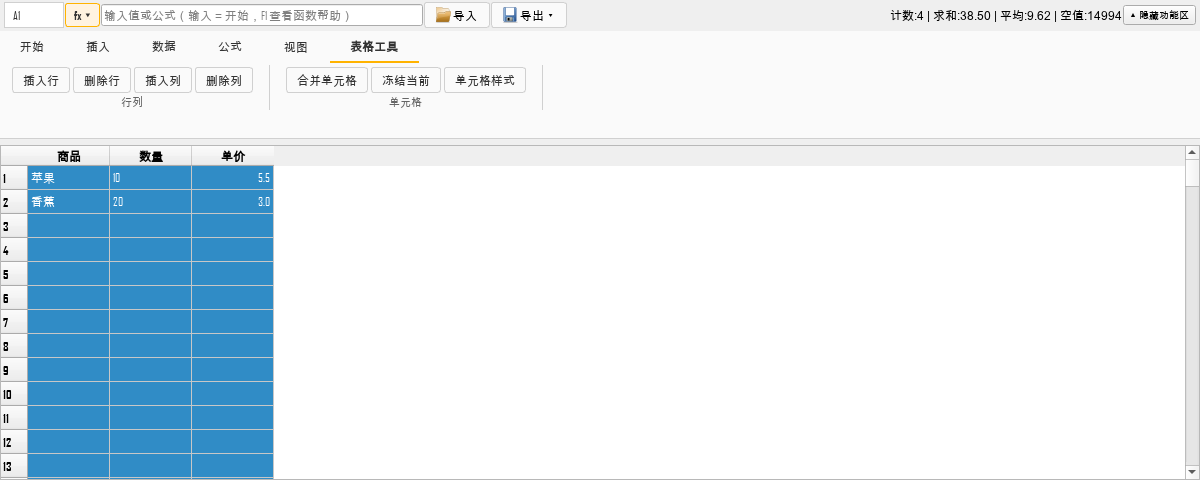
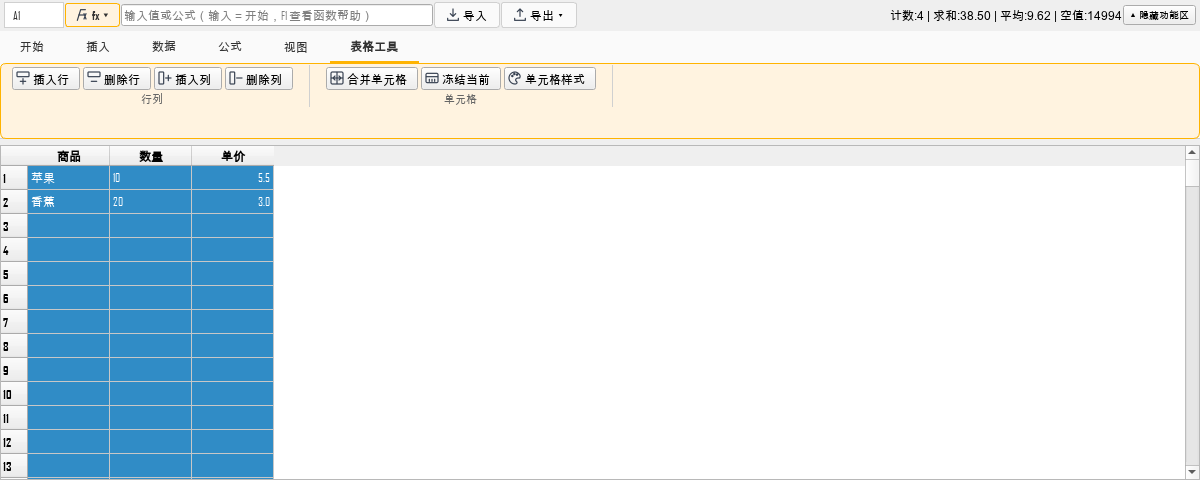
feat(ui): 自定义 SVG 图标、图标折叠、表格上下文页签与快捷工具栏

Changed region(s): [[0.0, 0.125, 1.0, 0.3125], [0.0617, 0.0, 0.3083, 0.0625], [0.3392, 0.0, 0.4625, 0.0625]]

diff --git a/beeoffice/plugins/beesheet_ui_mixin.py b/beeoffice/plugins/beesheet_ui_mixin.py
@@ -44,15 +44,16 @@ from PySide6.QtWidgets import (
     QWidget, QVBoxLayout, QHBoxLayout, QTableView, QHeaderView,
     QLineEdit, QLabel, QPushButton, QComboBox, QSpinBox,
     QListWidget, QAbstractItemView, QProgressBar, QAbstractButton,
-    QGroupBox, QTabBar, QStackedWidget, QFrame, QSizePolicy, QStyle,
+    QGroupBox, QTabBar, QStackedWidget, QFrame, QSizePolicy, QStyle, QToolButton,
 )
-from PySide6.QtCore import Qt, QTimer, QSettings
-from PySide6.QtGui import QFont, QShortcut, QKeySequence
+from PySide6.QtCore import Qt, QTimer, QSettings, QSize
+from PySide6.QtGui import QFont, QShortcut, QKeySequence, QColor
 
 from beeoffice.plugins.beesheet_delegate import CellEditorDelegate
 from beeoffice.plugins.beesheet_loaders import ChunkLoader
 from beeoffice.i18n import tr
 from beeoffice.theme import Theme
+from beeoffice.ribbon_icons import ribbon_icon
 
 
 def _t():
@@ -203,6 +204,7 @@ class UIMixin:
         t1.addWidget(self._name_box)
 
         self._fx_btn = QPushButton("fx ▾")
+        self._fx_btn.setIcon(ribbon_icon("function"))
         self._fx_btn.setToolTip(tr("auto.beesheet_ui_mixin.19e2c0c0", "插入函数"))
         self._fx_btn.setStyleSheet(
             f"QPushButton{{background:{_t()['accent_light']};border:1px solid {_t()['accent']};"
@@ -229,13 +231,13 @@ class UIMixin:
 
         btn_import = QPushButton(tr("auto.beesheet_ui_mixin.85c5bee6", "导入"))
         btn_import.setStyleSheet(btn_style)
-        btn_import.setIcon(self.style().standardIcon(QStyle.SP_DialogOpenButton))
+        btn_import.setIcon(ribbon_icon("import"))
         btn_import.clicked.connect(self._import_file)
         t1.addWidget(btn_import)
 
         self._export_btn = QPushButton(tr("auto.beesheet_ui_mixin.6810bfb6", "导出 ▾"))
         self._export_btn.setStyleSheet(btn_style)
-        self._export_btn.setIcon(self.style().standardIcon(QStyle.SP_DialogSaveButton))
+        self._export_btn.setIcon(ribbon_icon("export"))
         self._export_btn.clicked.connect(self._show_export_menu)
         t1.addWidget(self._export_btn)
 
@@ -339,13 +341,34 @@ class UIMixin:
             "QPushButton:checked{background:#FFB300;color:#000;}"
         )
 
+        icon_by_text = {
+            "粘贴": "paste", "查找替换": "find", "自动求和": "sum",
+            "图表": "chart", "透视表": "pivot", "批注": "comment",
+            "智能填充": "fill", "排序": "sort", "筛选": "filter",
+            "清洗": "clean", "数据验证": "validation",
+            "插入函数": "function", "函数参考": "book",
+            "名称管理": "tag", "追踪引用": "trace", "追踪从属": "trace",
+            "自然语言": "natural", "冻结": "freeze", "解冻": "unfreeze",
+            "样式": "style", "兼容性": "compat", "统计": "stats",
+            "插入行": "insert-row", "删除行": "delete-row",
+            "插入列": "insert-col", "删除列": "delete-col",
+            "合并单元格": "merge", "冻结当前": "freeze", "单元格样式": "style",
+        }
+        self._ribbon_buttons = []
+
         def add_btn(group_layout, text, slot, tip=None):
-            btn = QPushButton(text)
-            btn.setStyleSheet(btn_style)
-            if tip:
-                btn.setToolTip(tip)
+            btn = QToolButton()
+            btn.setText(text)
+            icon_name = icon_by_text.get(text)
+            if icon_name:
+                btn.setIcon(ribbon_icon(icon_name))
+                btn.setIconSize(QSize(16, 16))
+                btn.setToolButtonStyle(Qt.ToolButtonTextBesideIcon)
+            btn.setStyleSheet("")
+            btn.setToolTip(tip or text)
             btn.clicked.connect(slot)
             group_layout.addWidget(btn)
+            self._ribbon_buttons.append(btn)
             return btn
 
         # ---------- 开始 ----------
@@ -455,6 +478,14 @@ class UIMixin:
         add_btn(cell_group, "单元格样式", self._show_style_menu)
         self._table_tab_index = self._ribbon_tabs.count() - 1
         self._ribbon_tabs.setTabVisible(self._table_tab_index, False)
+        self._ribbon_tabs.setTabTextColor(self._table_tab_index, QColor(_t()["accent"]))
+        ctx_page = page_table.parentWidget()
+        if ctx_page is not None:
+            ctx_page.setObjectName("BeeSheetTableContext")
+            ctx_page.setStyleSheet(
+                f"QWidget#BeeSheetTableContext{{background:{_t()['accent_light']};"
+                f"border:1px solid {_t()['accent']};border-radius:6px;}}"
+            )
 
         for page_layout in ribbon_pages:
             page_layout.addStretch(1)
@@ -497,6 +528,12 @@ class UIMixin:
         compact = self.width() < 980
         for group in self._ribbon.findChildren(RibbonGroup):
             group.title.setVisible(not compact)
+        for btn in getattr(self, "_ribbon_buttons", []):
+            if btn.icon().isNull():
+                continue
+            btn.setToolButtonStyle(
+                Qt.ToolButtonIconOnly if compact else Qt.ToolButtonTextBesideIcon
+            )
         self._ribbon.setFixedHeight(96 if compact else 108)
 
     # ==================== 表格视图 ====================

diff --git a/beeoffice/ribbon_icons.py b/beeoffice/ribbon_icons.py
@@ -1,0 +1,76 @@
+"""BeeOffice 内置 SVG 图标集。
+
+不依赖外部图片文件，避免 PyInstaller 资源漏打包。
+图标为线性风格，颜色可按主题替换。
+"""
+from __future__ import annotations
+
+from functools import lru_cache
+
+from PySide6.QtCore import QByteArray, QSize
+from PySide6.QtGui import QIcon, QPainter, QPixmap, QImage
+from PySide6.QtSvg import QSvgRenderer
+
+# 24x24 viewBox，{color} 由 ribbon_icon 替换
+_ICONS = {
+    "new": '<path d="M6 3h8l4 4v14H6z"/><path d="M14 3v5h5"/><path d="M12 12v6M9 15h6"/>',
+    "open": '<path d="M3 7h7l2 2h9v10H3z"/><path d="M3 7V5h6l2 2"/>',
+    "save": '<path d="M5 3h12l2 2v16H5z"/><path d="M8 3v6h7V3"/><path d="M8 14h8v7H8z"/>',
+    "import": '<path d="M12 3v11"/><path d="M8 10l4 4 4-4"/><path d="M4 17v3h16v-3"/>',
+    "export": '<path d="M12 14V3"/><path d="M8 7l4-4 4 4"/><path d="M4 17v3h16v-3"/>',
+    "paste": '<rect x="6" y="4" width="12" height="17" rx="2"/><path d="M9 4V2h6v2"/><path d="M9 9h6M9 13h6M9 17h4"/>',
+    "find": '<circle cx="10" cy="10" r="6"/><path d="M15 15l6 6"/>',
+    "sum": '<path d="M6 4h12l-7 8 7 8H6"/>',
+    "chart": '<path d="M4 20V10M10 20V4M16 20v-7M22 20H2"/>',
+    "pivot": '<rect x="3" y="3" width="18" height="18" rx="2"/><path d="M3 9h18M9 3v18"/><path d="M13 13h4v4h-4z"/>',
+    "comment": '<path d="M4 4h16v12H9l-5 4z"/><path d="M8 9h8M8 13h6"/>',
+    "fill": '<path d="M5 12l7-8 7 8-7 8z"/><path d="M9 13h9"/>',
+    "sort": '<path d="M8 4v16M5 7l3-3 3 3"/><path d="M16 20V4M13 17l3 3 3-3"/>',
+    "filter": '<path d="M3 4h18l-7 8v7l-4 2v-9z"/>',
+    "clean": '<path d="M4 20h16"/><path d="M6 16l7-12 4 2-7 12z"/><path d="M10 8l5 3"/>',
+    "validation": '<path d="M12 2l8 3v7c0 5-4 8-8 10-4-2-8-5-8-10V5z"/><path d="M8 12l3 3 5-6"/>',
+    "function": '<path d="M5 20l5-16h7"/><path d="M7 12h8"/><path d="M15 10l3 8M18 10l-3 8"/>',
+    "book": '<path d="M3 5c2 0 5 1 9 3 4-2 7-3 9-3v14c-2 0-5 1-9 3-4-2-7-3-9-3z"/><path d="M12 8v14"/>',
+    "tag": '<path d="M3 3h9l9 9-9 9-9-9z"/><circle cx="8" cy="8" r="1.5"/>',
+    "trace": '<circle cx="5" cy="6" r="2"/><circle cx="19" cy="18" r="2"/><path d="M7 6h5a3 3 0 0 1 3 3v6a3 3 0 0 0 3 3"/>',
+    "natural": '<path d="M4 4h16v10H9l-5 4z"/><path d="M8 8h8M8 11h5"/><path d="M18 2v3M21 5h-3"/>',
+    "freeze": '<rect x="3" y="5" width="18" height="14" rx="2"/><path d="M3 10h18"/><path d="M8 14v3M12 14v3M16 14v3"/>',
+    "unfreeze": '<rect x="3" y="5" width="18" height="14" rx="2"/><path d="M3 10h18"/><path d="M8 14v3M12 14v5M16 14v3"/>',
+    "style": '<path d="M12 3a9 9 0 1 0 0 18c2 0 3-1 3-2 0-2-2-2-2-4 0-2 2-3 4-3h2c1-2 1-4-1-6-2-2-4-3-6-3z"/><circle cx="8" cy="9" r="1"/><circle cx="11" cy="6" r="1"/><circle cx="15" cy="7" r="1"/>',
+    "compat": '<path d="M4 4h10v10H4z"/><path d="M10 10h10v10H10z"/><path d="M2 18l3 3 5-6"/>',
+    "stats": '<path d="M4 20V8M10 20V4M16 20v-9M22 20H2"/><path d="M4 8l6-4 6 7 6-3"/>',
+    "insert-row": '<rect x="3" y="3" width="18" height="7" rx="1"/><path d="M12 13v8M8 17h8"/>',
+    "delete-row": '<rect x="3" y="3" width="18" height="7" rx="1"/><path d="M8 17h8"/>',
+    "insert-col": '<rect x="3" y="3" width="7" height="18" rx="1"/><path d="M17 8v8M13 12h8"/>',
+    "delete-col": '<rect x="3" y="3" width="7" height="18" rx="1"/><path d="M13 12h8"/>',
+    "merge": '<rect x="3" y="3" width="18" height="18" rx="2"/><path d="M3 12h18M12 3v18"/><path d="M9 9l-3 3 3 3M15 9l3 3-3 3"/>',
+    "table": '<rect x="3" y="3" width="18" height="18" rx="2"/><path d="M3 9h18M3 15h18M9 3v18M15 3v18"/>',
+    "undo": '<path d="M9 7L4 12l5 5"/><path d="M4 12h9a6 6 0 0 1 6 6"/>',
+    "redo": '<path d="M15 7l5 5-5 5"/><path d="M20 12h-9a6 6 0 0 0-6 6"/>',
+    "command": '<rect x="3" y="3" width="18" height="18" rx="4"/><path d="M8 9h8M8 13h5"/>',
+}
+
+
+@lru_cache(maxsize=128)
+def ribbon_icon(name: str, color: str = "#374151") -> QIcon:
+    """按名称生成 SVG QIcon；未知名称返回空图标。"""
+    body = _ICONS.get(name)
+    if not body:
+        return QIcon()
+    svg = (
+        '<svg xmlns="http://www.w3.org/2000/svg" width="24" height="24" '
+        'viewBox="0 0 24 24">'
+        '<g fill="none" stroke="' + color + '" stroke-width="1.8" '
+        'stroke-linecap="round" stroke-linejoin="round">'
+        + body + "</g></svg>"
+    )
+    renderer = QSvgRenderer(QByteArray(svg.encode("utf-8")))
+    image = QImage(QSize(48, 48), QImage.Format_ARGB32)
+    image.fill(0)
+    painter = QPainter(image)
+    renderer.render(painter)
+    painter.end()
+    return QIcon(QPixmap.fromImage(image))
+
+
+__all__ = ["ribbon_icon"]

diff --git a/beeoffice/app.py b/beeoffice/app.py
@@ -54,10 +54,10 @@ from datetime import datetime
 
 from PySide6.QtWidgets import (
     QMainWindow, QStatusBar, QLabel, QMessageBox, QFileDialog,
-    QDialog, QVBoxLayout, QTextEdit, QWidget,
+    QDialog, QVBoxLayout, QTextEdit, QWidget, QToolBar, QToolButton, QMenu,
 )
 from PySide6.QtGui import QAction, QKeySequence, QShortcut
-from PySide6.QtCore import Qt, QTimer, Signal, QFileSystemWatcher
+from PySide6.QtCore import Qt, QTimer, Signal, QFileSystemWatcher, QSize
 
 from beeoffice.tab_manager import TabManager
 from beeoffice.settings import AppSettings
@@ -65,6 +65,7 @@ from beeoffice.theme import Theme
 from beeoffice.icon import create_app_icon
 from beeoffice.i18n import tr, set_language
 from beeoffice.async_task import AsyncTaskManager
+from beeoffice.ribbon_icons import ribbon_icon
 
 
 TEXT_EXTENSIONS = (".md", ".txt")
@@ -106,6 +107,7 @@ class BeeApp(QMainWindow):
 
         from beeoffice.menus import setup_menus
         setup_menus(self)
+        self._build_quick_access_bar()
 
         self.status = QStatusBar()
         self.status_label = QLabel(tr("app.ready"))
@@ -1056,6 +1058,49 @@ class BeeApp(QMainWindow):
         self.settings.accent_color = accent_name
         self.settings.save()
         self._apply_theme()
+
+    def _build_quick_access_bar(self):
+        """WPS 风格快捷工具栏：文件入口 + 新建/打开/保存/命令面板。"""
+        bar = QToolBar("快捷工具栏", self)
+        bar.setObjectName("WpsQuickBar")
+        bar.setMovable(False)
+        bar.setIconSize(QSize(18, 18))
+        bar.setToolButtonStyle(Qt.ToolButtonTextBesideIcon)
+        self.addToolBar(Qt.TopToolBarArea, bar)
+
+        accent = Theme.tokens().get("accent", "#E67E22")
+        file_btn = QToolButton()
+        file_btn.setText("文件")
+        file_btn.setPopupMode(QToolButton.InstantPopup)
+        file_btn.setStyleSheet(
+            f"QToolButton{{background:{accent};color:white;font-weight:bold;"
+            "padding:5px 16px;border:none;border-radius:4px;}"
+            "QToolButton:pressed{background:#C0392B;}"
+        )
+        file_menu = QMenu(file_btn)
+        file_menu.addAction("新建文档", self._new_beewrite)
+        file_menu.addAction("新建表格", self._new_beesheet)
+        file_menu.addAction("打开", self.tab_manager.open_file)
+        file_menu.addSeparator()
+        file_menu.addAction("保存", self._save_current)
+        file_menu.addAction("另存为", self._save_as_current)
+        file_menu.addSeparator()
+        file_menu.addAction("命令面板", self.show_command_palette)
+        file_btn.setMenu(file_menu)
+        bar.addWidget(file_btn)
+        bar.addSeparator()
+
+        for text, icon, slot, shortcut in (
+            ("新建", "new", self._new_beewrite, "Ctrl+N"),
+            ("打开", "open", self.tab_manager.open_file, "Ctrl+O"),
+            ("保存", "save", self._save_current, "Ctrl+S"),
+            ("命令面板", "command", self.show_command_palette, "Ctrl+Shift+P"),
+        ):
+            act = QAction(ribbon_icon(icon), text, self)
+            if shortcut:
+                act.setToolTip(f"{text}（{shortcut}）")
+            act.triggered.connect(slot)
+            bar.addAction(act)
 
     def _apply_theme(self):
         self.setStyleSheet(Theme.get_stylesheet())

diff --git a/tests/qt/test_app.py b/tests/qt/test_app.py
@@ -4,7 +4,7 @@ BeeApp 主窗口的单元测试
 覆盖：窗口初始化、菜单、标签管理、新建文档、命令面板、主题、语言
 """
 import pytest
-from PySide6.QtWidgets import QApplication
+from PySide6.QtWidgets import QApplication, QToolBar, QToolButton
 from PySide6.QtCore import Qt
 
 from beeoffice.app import BeeApp
@@ -217,3 +217,11 @@ class TestClose:
         """关闭时应保存设置（不实际关闭，仅检查方法存在）"""
         assert hasattr(app, "closeEvent")
         assert callable(app.closeEvent)
+
+def test_wps_quick_access_bar(app):
+    """主窗口应有 WPS 风格快捷工具栏与文件入口。"""
+    bar = app.findChild(QToolBar, "WpsQuickBar")
+    assert bar is not None
+    texts = [a.text() for a in bar.actions()]
+    assert "新建" in texts and "打开" in texts and "保存" in texts
+    assert "文件" in [b.text() for b in bar.findChildren(QToolButton)]

diff --git a/tests/unit/test_ribbon_icons.py b/tests/unit/test_ribbon_icons.py
@@ -1,0 +1,15 @@
+"""自定义 SVG 图标集测试。"""
+from beeoffice.ribbon_icons import _ICONS, ribbon_icon
+
+
+def test_all_icons_render(qapp):
+    assert len(_ICONS) >= 25
+    for name in _ICONS:
+        icon = ribbon_icon(name)
+        assert not icon.isNull(), name
+        pixmap = icon.pixmap(24, 24)
+        assert pixmap.hasAlphaChannel(), name
+
+
+def test_unknown_icon_empty(qapp):
+    assert ribbon_icon("not-a-real-icon").isNull()

diff --git a/docs/BeeSheet-分类功能区-2026-11-13.md b/docs/BeeSheet-分类功能区-2026-11-13.md
@@ -60,6 +60,14 @@
 - 按钮 hover/pressed/checked 统一主题样式；
 - 功能区背景使用 surface_alt，与表格区分层。
 
+## 主窗口 WPS 入口
+
+![主窗口快捷工具栏](main-window-wps-2026-11-13.png)
+
+- 左侧“文件”入口（弹出新建/打开/保存/命令面板）；
+- 右侧快捷工具栏：新建、打开、保存、命令面板；
+- QMenuBar 改为 WPS 扁平样式。
+
 ## 兼容性
 
 - `_toggle_toolbars(btn)` 保留，改为隐藏/展开整个 Ribbon；

diff --git a/CHANGELOG.md b/CHANGELOG.md
@@ -20,7 +20,9 @@
 - 去掉 emoji，导入/导出改用系统标准图标；
 - 选中多格显示“表格工具”上下文页签；
 - 记住上次页签；窄窗口自动隐藏组标题；
-- 主窗口 QMenuBar 同步 WPS 扁平样式。
+- 主窗口 QMenuBar 同步 WPS 扁平样式；
+- 新增内置 SVG 图标集 `beeoffice/ribbon_icons.py`；
+- 新增主窗口“文件”入口与快捷工具栏。
 - 隐藏/展开功能区按钮保留；
 - 删除旧的无引用翻译键 8 个。
 
